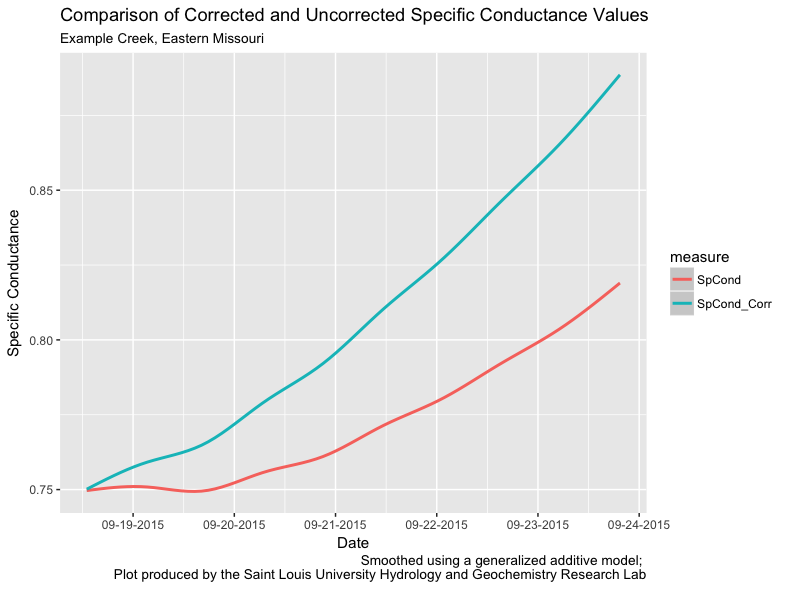
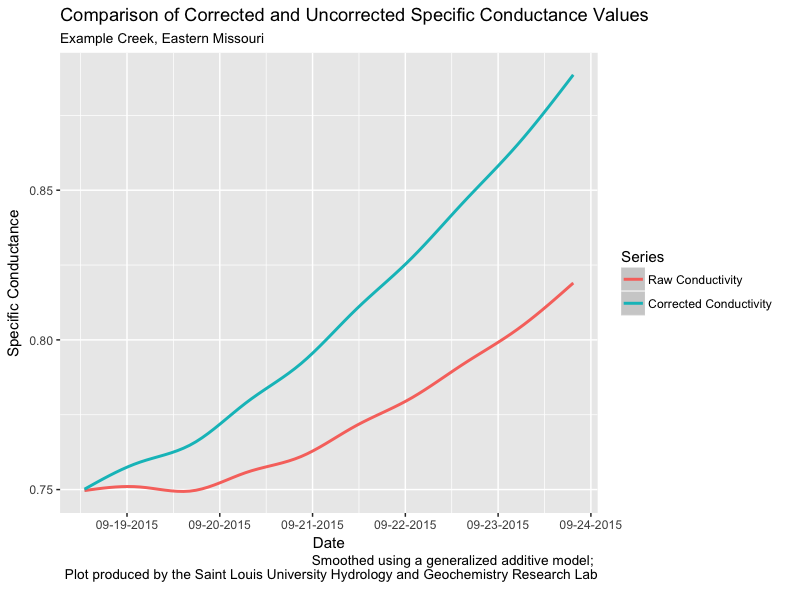
fix production plot example's legend

diff --git a/docs/index.html b/docs/index.html
@@ -29,7 +29,7 @@
     <div id="navbar" class="navbar-collapse collapse">
       <ul class="nav navbar-nav">
 <li>
-  <a href="/index.html">
+  <a href="index.html">
     <span class="fa fa-home fa-lg"></span>
      
   </a>
@@ -203,8 +203,8 @@ df &lt;-<span class="st"> </span>df <span class="op">%&gt;%</span>
 <p>If <code>driftR</code> does not seem to be working as advertised, please help us creating a reproducible example, or <a href="https://github.com/tidyverse/reprex"><code>reprex</code></a>, that makes it easy to <a href="https://www.tidyverse.org/help/">get help</a>.</p>
 <div class="sourceCode"><pre class="sourceCode r"><code class="sourceCode r"><span class="kw">install.packages</span>(<span class="st">"reprex"</span>)
 <span class="kw">library</span>(<span class="st">"reprex"</span>)</code></pre></div>
-<p>After loading the <code>reprex</code> package, copy some code to your clipboard that includes the <code>library()</code> functions, the process you used to get you to where you are at (ideally simplified), and the functions that are creating issues. Once it is copied, you can use <code>reprex()</code> to format your example:</p>
-<div class="sourceCode"><pre class="sourceCode r"><code class="sourceCode r"><span class="kw">reprex</span>()</code></pre></div>
+<p>After loading the <code>reprex</code> package, copy some code to your clipboard that includes the <code>library()</code> functions, the process you used to get you to where you are at (ideally simplified), and the functions that are creating issues. Once it is copied, you can use <code><a href="http://www.rdocumentation.org/packages/reprex/topics/reprex">reprex()</a></code> to format your example:</p>
+<div class="sourceCode"><pre class="sourceCode r"><code class="sourceCode r"><span class="kw"><a href="http://www.rdocumentation.org/packages/reprex/topics/reprex">reprex</a></span>()</code></pre></div>
 <p>Your clipboard will now contain a nicely formatted set of output that you can copy and paste into a GitHub <a href="https://github.com/shaughnessyar/driftR/issues">Issue</a> that describes your problem.</p>
 </div>
 <div id="adding-dr_read-functions" class="section level3">

diff --git a/docs/articles/ExploringData.html b/docs/articles/ExploringData.html
@@ -29,7 +29,7 @@
     <div id="navbar" class="navbar-collapse collapse">
       <ul class="nav navbar-nav">
 <li>
-  <a href="..//index.html">
+  <a href="../index.html">
     <span class="fa fa-home fa-lg"></span>
      
   </a>
@@ -316,8 +316,10 @@ df &lt;-<span class="st"> </span><span class="kw">bind_rows</span>(df1, df2)</co
       <span class="dt">subtitle =</span> <span class="st">"Example Creek, Eastern Missouri"</span>,
       <span class="dt">x =</span> <span class="st">"Date"</span>,
       <span class="dt">y =</span> <span class="st">"Specific Conductance"</span>,
-      <span class="dt">caption =</span> <span class="st">"Smoothed using a generalized additive model; </span><span class="ch">\n</span><span class="st">Plot produced by the Saint Louis University Hydrology and Geochemistry Research Lab"</span>
-    )</code></pre></div>
+      <span class="dt">caption =</span> <span class="st">"Smoothed using a generalized additive model; </span><span class="ch">\n</span><span class="st">Plot produced by the Saint Louis University Hydrology and Geochemistry Research Lab"</span>,
+      <span class="dt">color =</span> <span class="st">"Series"</span>
+    ) <span class="op">+</span>
+<span class="st">    </span><span class="kw"><a href="http://www.rdocumentation.org/packages/ggplot2/topics/scale_hue">scale_colour_discrete</a></span>(<span class="dt">labels=</span><span class="kw">c</span>(<span class="st">"Raw Conductivity"</span>, <span class="st">"Corrected Conductivity"</span>))</code></pre></div>
 <div class="figure">
 <img src="disseminationPlot.png">
 </div>

diff --git a/docs/articles/index.html b/docs/articles/index.html
@@ -52,7 +52,7 @@
     <div id="navbar" class="navbar-collapse collapse">
       <ul class="nav navbar-nav">
         <li>
-  <a href="..//index.html">
+  <a href="../index.html">
     <span class="fa fa-home fa-lg"></span>
      
   </a>

diff --git a/docs/news/index.html b/docs/news/index.html
@@ -52,7 +52,7 @@
     <div id="navbar" class="navbar-collapse collapse">
       <ul class="nav navbar-nav">
         <li>
-  <a href="..//index.html">
+  <a href="../index.html">
     <span class="fa fa-home fa-lg"></span>
      
   </a>

diff --git a/docs/reference/dr_correctOne.html b/docs/reference/dr_correctOne.html
@@ -52,7 +52,7 @@
     <div id="navbar" class="navbar-collapse collapse">
       <ul class="nav navbar-nav">
         <li>
-  <a href="..//index.html">
+  <a href="../index.html">
     <span class="fa fa-home fa-lg"></span>
      
   </a>

diff --git a/docs/reference/dr_correctTwo.html b/docs/reference/dr_correctTwo.html
@@ -52,7 +52,7 @@
     <div id="navbar" class="navbar-collapse collapse">
       <ul class="nav navbar-nav">
         <li>
-  <a href="..//index.html">
+  <a href="../index.html">
     <span class="fa fa-home fa-lg"></span>
      
   </a>

diff --git a/docs/reference/dr_drop.html b/docs/reference/dr_drop.html
@@ -52,7 +52,7 @@
     <div id="navbar" class="navbar-collapse collapse">
       <ul class="nav navbar-nav">
         <li>
-  <a href="..//index.html">
+  <a href="../index.html">
     <span class="fa fa-home fa-lg"></span>
      
   </a>

diff --git a/docs/reference/dr_factor.html b/docs/reference/dr_factor.html
@@ -52,7 +52,7 @@
     <div id="navbar" class="navbar-collapse collapse">
       <ul class="nav navbar-nav">
         <li>
-  <a href="..//index.html">
+  <a href="../index.html">
     <span class="fa fa-home fa-lg"></span>
      
   </a>

diff --git a/docs/reference/dr_readSonde.html b/docs/reference/dr_readSonde.html
@@ -52,7 +52,7 @@
     <div id="navbar" class="navbar-collapse collapse">
       <ul class="nav navbar-nav">
         <li>
-  <a href="..//index.html">
+  <a href="../index.html">
     <span class="fa fa-home fa-lg"></span>
      
   </a>

diff --git a/docs/reference/driftR.html b/docs/reference/driftR.html
@@ -52,7 +52,7 @@
     <div id="navbar" class="navbar-collapse collapse">
       <ul class="nav navbar-nav">
         <li>
-  <a href="..//index.html">
+  <a href="../index.html">
     <span class="fa fa-home fa-lg"></span>
      
   </a>

diff --git a/docs/reference/grapes-nin-grapes.html b/docs/reference/grapes-nin-grapes.html
@@ -52,7 +52,7 @@
     <div id="navbar" class="navbar-collapse collapse">
       <ul class="nav navbar-nav">
         <li>
-  <a href="..//index.html">
+  <a href="../index.html">
     <span class="fa fa-home fa-lg"></span>
      
   </a>

diff --git a/docs/reference/index.html b/docs/reference/index.html
@@ -52,7 +52,7 @@
     <div id="navbar" class="navbar-collapse collapse">
       <ul class="nav navbar-nav">
         <li>
-  <a href="..//index.html">
+  <a href="../index.html">
     <span class="fa fa-home fa-lg"></span>
      
   </a>
